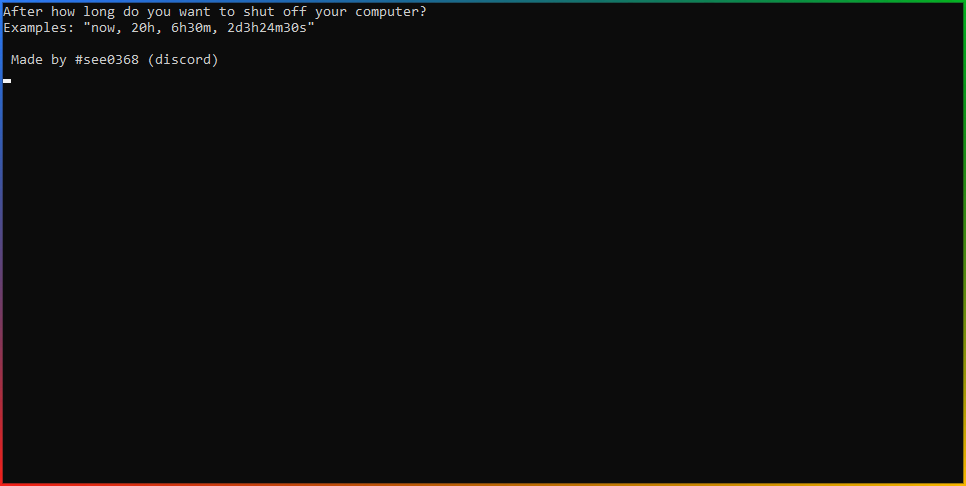
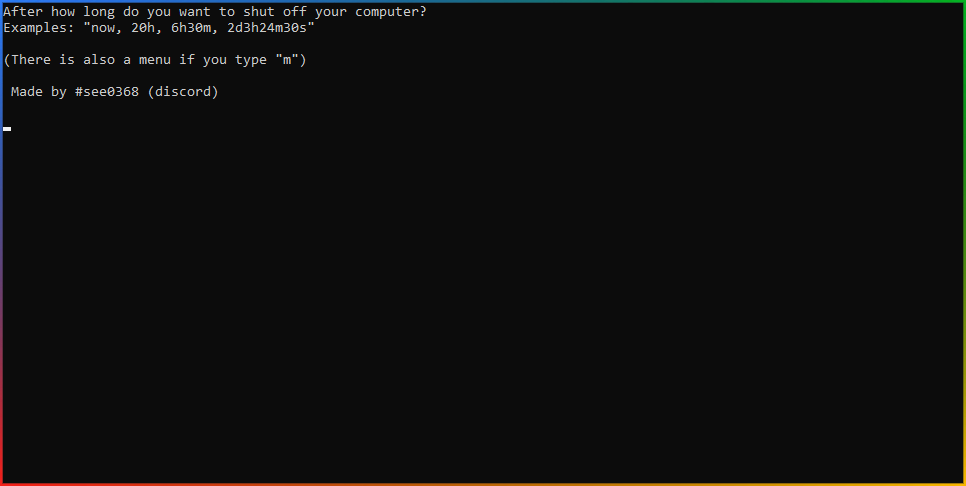
added menu

Changed region(s): [[0.0, 0.0926, 0.3106, 0.216]]

diff --git a/main.c b/main.c
@@ -101,21 +101,27 @@ void stringToNumber(times *mainTimes)
 Returns a different integer value for different inputs. Writes seconds, minutes, hours and days if found.
 
     return 0 = Shutdown PC now
-    return 1 = No numerical value provided
-    return 2 = A time value has been provided twice
-    return 3 = Everything went smoothly and shutdown is not set for "now"
+    return 1 = open menu
+    return 2 = No numerical value provided
+    return 3 = A time value has been provided twice
+    return 4 = Everything went smoothly and shutdown is not set for "now"
 */
 
 int validateInput(times *mainTimes, char *input, int size, bool *hasNumber)
 {
     system("cls");
+    int cmp;
 
-    int cmp = strncmp(input, "now", size);
+    cmp = strncmp(input, "now", size);
     if (cmp == 0)
         return 0;
 
-    if (*hasNumber == false)
+    cmp = strncmp(input, "m", size);
+    if (cmp == 0)
         return 1;
+
+    if (*hasNumber == false)
+        return 2;
 
     for (int i = size - 1; i >= 0; i--)
     {
@@ -129,7 +135,7 @@ int validateInput(times *mainTimes, char *input, int size, bool *hasNumber)
             if (mainTimes->times_S == 1)
                 getTime(input, mainTimes->seconds_A, i);
             else
-                return 2;
+                return 3;
 
             break;
 
@@ -139,7 +145,7 @@ int validateInput(times *mainTimes, char *input, int size, bool *hasNumber)
             if (mainTimes->times_M == 1)
                 getTime(input, mainTimes->minutes_A, i);
             else
-                return 2;
+                return 3;
 
             break;
 
@@ -149,7 +155,7 @@ int validateInput(times *mainTimes, char *input, int size, bool *hasNumber)
             if (mainTimes->times_H == 1)
                 getTime(input, mainTimes->hours_A, i);
             else
-                return 2;
+                return 3;
 
             break;
 
@@ -159,7 +165,7 @@ int validateInput(times *mainTimes, char *input, int size, bool *hasNumber)
             if (mainTimes->times_D == 1)
                 getTime(input, mainTimes->days_A, i);
             else
-                return 2;
+                return 3;
 
             break;
 
@@ -169,17 +175,23 @@ int validateInput(times *mainTimes, char *input, int size, bool *hasNumber)
     }
 
     stringToNumber(mainTimes);
-    return 3;
+    return 4;
 }
-int main(void)
+bool initialize()
 {
 
     printf("After how long do you want to shut off your computer?\n");
     printf("Examples: \"now, 20h, 6h30m, 2d3h24m30s\"\n");
-    printf("\n Made by #see0368 (discord)\n");
+
+    printf("\n(There is also a menu if you type \"m\")\n");
+
+    printf("\n Made by #see0368 (discord)\n\n");
 
     char input[16] = {'\0'};
-    scanf("%15s", input);
+    char inputMenu[2] = {'\0'};
+    char command[50] = {'\0'};
+
+    scanf(" %15s", input);
     input[15] = '\0';
 
     times mainTimes;
@@ -191,8 +203,7 @@ int main(void)
     if (size <= 0)
     {
         printf("Just no.\n");
-        system("PAUSE");
-        return 0;
+        return true;
     }
 
     int val = validateInput(&mainTimes, input, size, &hasNumber);
@@ -203,23 +214,58 @@ int main(void)
 
         printf("Pc will shut down any second!");
         system("shutdown -s -t 3");
-        return 0;
+        return true;
 
     case 1:
+
+        printf("You have opened the menu\n");
+        printf("Available options:\n\n");
+        printf("\"a\" for aborting currently set timer\n");
+        printf("\"l\" to leave menu\n");
+        printf("\"q\" to quit program\n\n");
+
+        scanf(" %1s", inputMenu);
+
+        if (!(strncmp(inputMenu, "a", 1)))
+        {
+            system("cls");
+            sprintf(command, "shutdown -a");
+            system(command);
+
+            printf("\nNo Error message above means shutdown canceled succesfully\n");
+            return true;
+        }
+
+        if (!(strncmp(inputMenu, "l", 1)))
+        {
+            return false;
+        }
+
+        if (!(strncmp(inputMenu, "q", 1)))
+        {
+            system("cls");
+            return true;
+        }
+
+        system("cls");
+        printf("Input (%c) has no use\n", inputMenu[0]);
+
+        system("PAUSE");
+        return false;
+
+    case 2:
 
         printf("You didn't specify any times so how will I shutdown for: \n");
         printf("%s?\n", input);
         printf("%s Bananas? Eggs? Watermelons?\n", input);
-        system("PAUSE");
-        return 0;
-
-    case 2:
-
-        printf("Why the fuck do you want a single measurement twice? I'm not a calculator\n");
-        system("PAUSE");
-        return 0;
+        return true;
 
     case 3:
+
+        printf("Why the fuck do you want a single measurement twice? I'm not a calculator\n");
+        return true;
+
+    case 4:
 
         // Should fit into uint64_t
         mainTimes.totalseconds = (mainTimes.seconds + mainTimes.minutes * 60 + mainTimes.hours * 60 * 60 + mainTimes.days * 24 * 60 * 60);
@@ -227,8 +273,7 @@ int main(void)
         if (mainTimes.totalseconds > 2592000)
         {
             printf("Can't set shut off for longer than 30 days. Why would you even want to?\n");
-            system("PAUSE");
-            return 0;
+            return true;
         }
 
         uint32_t finalseconds = (uint32_t)mainTimes.totalseconds;
@@ -236,24 +281,38 @@ int main(void)
         if (finalseconds < 5)
         {
             printf("Minimum shutdown time is 5 seconds (or just use \"now\")\n");
-            system("PAUSE");
-            return 0;
+            return true;
         }
-
-        char command[50] = {'\0'};
 
         sprintf(command, "shutdown -s -t %u", finalseconds);
 
         system(command);
 
         printf("Pc will shutdown in %llu days, %llu, hours, %llu minutes %llu seconds like you requested. :)\n", mainTimes.days, mainTimes.hours, mainTimes.minutes, mainTimes.seconds);
-        system("PAUSE");
-        return 0;
+        return true;
 
     default:
         printf("This shouldn't have been reached, you found a bug in my code. Please provide me with your input on discord: see#0368\n");
         printf("Your input: %s\n", input);
-        system("PAUSE");
-        return 0;
+        return true;
     }
+}
+
+int main(void)
+{
+
+    bool endProgram = false;
+
+    while (!endProgram)
+    {
+        system("cls");
+        endProgram = initialize();
+
+        // clear buffer
+        while ((getchar()) != '\n')
+            ;
+    }
+
+    system("PAUSE");
+    return 0;
 }

diff --git a/README.md b/README.md
@@ -1,17 +1,24 @@
 # Turn off PC Timer
 
 With this program you can decide a time after which your pc will turn off.
-Works only on Windows. 
+Works only on Windows.
 
 ## How to use?
+
 Upon program start you will be prompted with this:
 
 ![](assets/prompt.png)
 
-You can input times by using ``` s``` for seconds, ``` m``` for minutes  ``` h``` for hours  ``` d``` for days and the value you want in front. 
+You can input times by using ` s` for seconds, ` m` for minutes ` h` for hours ` d` for days and the value you want in front.
 
->_Times have to be lowercase._
+You can also use `now` to turn off the pc instantly.
 
-You can also use ```now``` to turn off the pc instantly.
+You can access a menu by using ` m`.
+
+Menu will look like that:
+
+![](assets/menu.png)
+
+> _Input has to be lowercase._
 
 **Confirm with** <kbd>enter</kbd>
